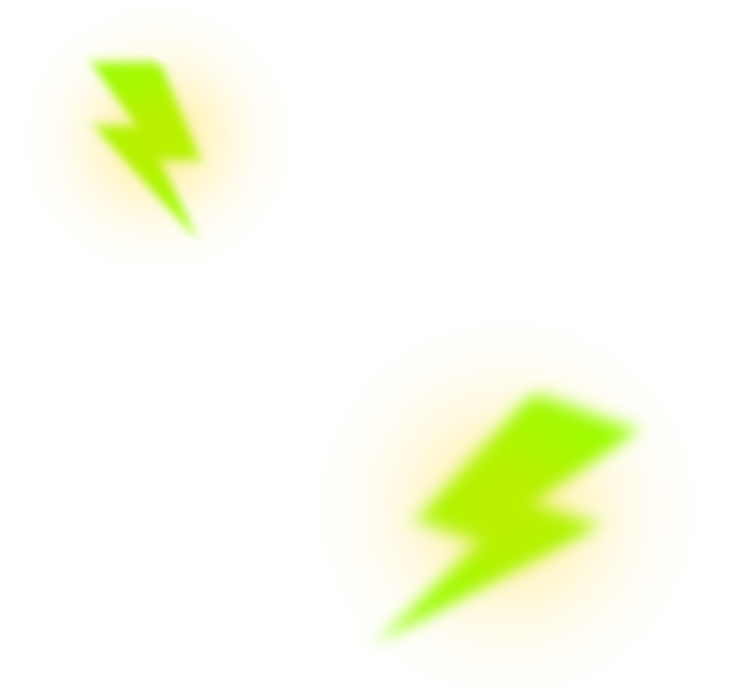
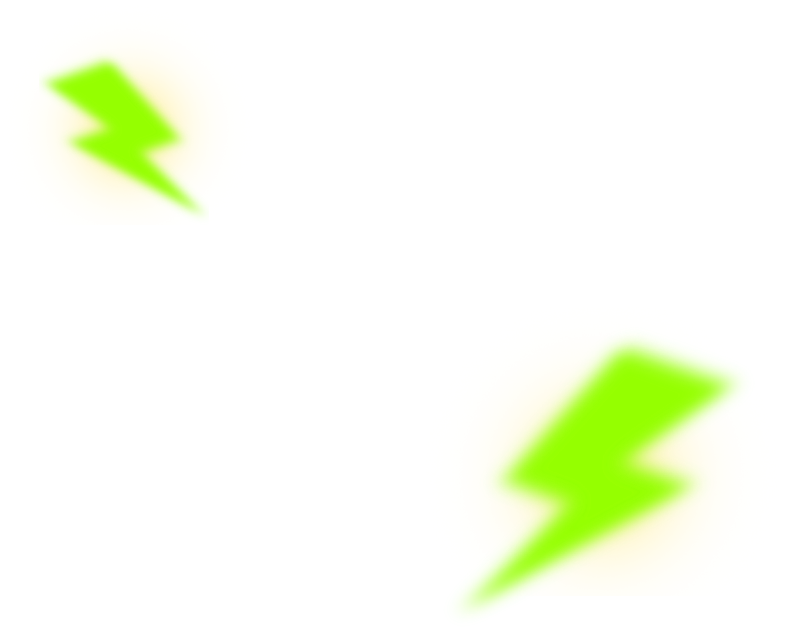
alteração de imagem, raio

Changed region(s): [[0.4907, 0.5455, 0.9507, 0.9697], [0.0307, 0.0606, 0.3373, 0.3636]]

diff --git a/src/components/Cabecalho/cabecalho.module.css b/src/components/Cabecalho/cabecalho.module.css
@@ -63,13 +63,14 @@
 
   .banner::before {
     content: "";
-    height: 80%;
-    width: 300px;
-    object-fit: contain;
+    height: 110%;
+    width: 600px;
     position: absolute;
     background-image: url(./PNG.png);
-    top: 30%;
-    right: 30%;
+    background-size: contain;
+    background-repeat: no-repeat;
+    top: 20%;
+    right: 10%;
     transform: -50%;
   }
 
